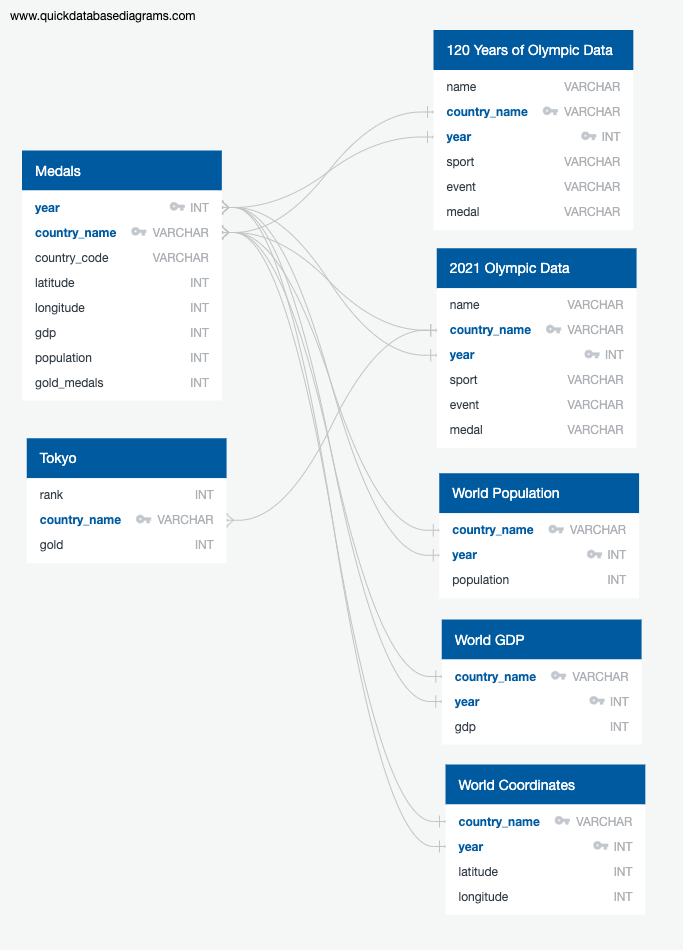
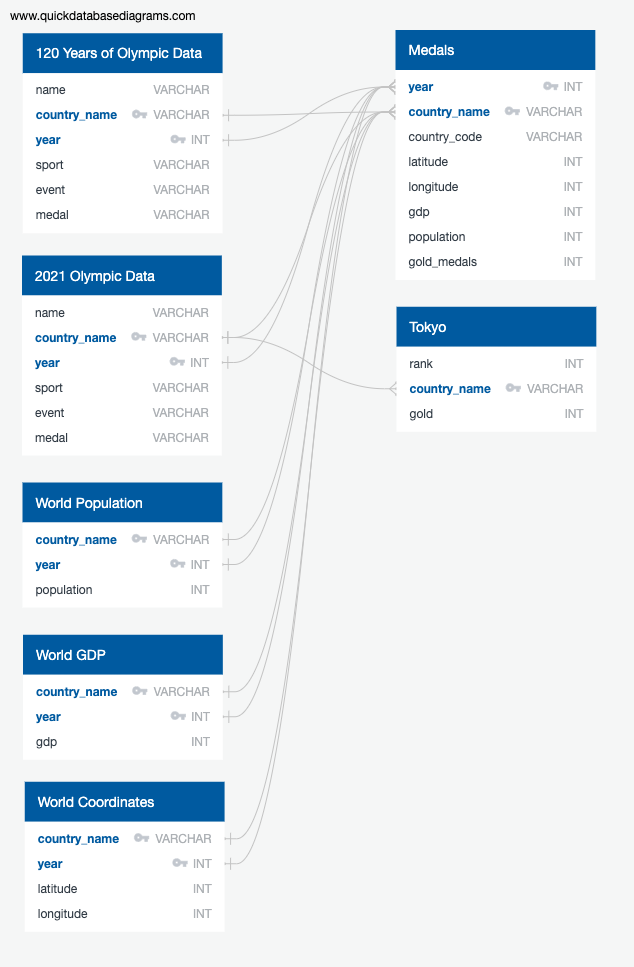
Update README.md

diff --git a/README.md b/README.md
@@ -6,7 +6,7 @@
 
 **Presentation:** <a href="https://docs.google.com/presentation/d/11bAJcIVT26343fWd_sayFOkF_LyOCVCvcwEMoAe4qWE/edit#slide=id.g93969108f1_2_103">Here is our final presentation.</a>
 
-**Dashboard:** <a href="https://alysiawon.github.io/Final-Project/Dashboard/index.html">Here is the draft of our dashboard.</a>
+**Dashboard:** <a href="https://alysiawon.github.io/Final-Project/Dashboard/index.html">Here is our dashboard.</a>
 
 ## 1. Overview of Project 
 
@@ -26,11 +26,11 @@ The Gold Medal Predicator will predict the exact number of medals you will win d
 
 In this project, we focus on using historic Olympic data and country data such as GDP and population to create the historic dashboard and the gold medal predictor. 
 
-<img align="right" src="Database/2. ERD/erd-process.png" width="450">
+<img align="right" src="Database/2. ERD/erd-process.png" width="300">
 
 ### Description of Datasets
 
-By utilizing Kaggle, World Bank and Google, we were able to find our datasets. The downloaded datasets are located in the <a href="Database/1. Datasets">Data folder</a>. Listed below is the links to the original datasets:
+By utilizing datasets from Kaggle, World Bank and Google, we were able to find our data. The downloaded datasets are located in the <a href="Database/1. Datasets">Data folder</a>. Listed below is the links to the original datasets:
 - <a href="https://www.kaggle.com/mysarahmadbhat/120-years-of-olympic-history">1896 to 2016 Olympic Data</a>
 - <a href="https://www.kaggle.com/arjunprasadsarkhel/2021-olympics-in-tokyo">2020 Olympic Data</a>.
 - <a href="https://www.kaggle.com/themlphdstudent/countries-population-from-1955-to-2020">World Population</a>
@@ -38,19 +38,21 @@ By utilizing Kaggle, World Bank and Google, we were able to find our datasets. T
 - <a href="https://developers.google.com/public-data/docs/canonical/countries_csv">World Coordinates</a>
 
 ### Entity Relationship Diagram (ERD)
-After searching for the data, our team created an <a href="Database/2. ERD">ERD Database</a>. In this ERD, it will showcase how our datasets link together to create our cleaned datasets. The left showcases our final datasets we will use to build our model and the right showcases the original datasets and how it links together. 
+After searching for the data, our team created an <a href="Database/2. ERD">ERD Database</a>. In this ERD, it will showcase how our datasets link together to create our cleaned datasets. The left showcases the original datasets and the left showcases our final datasets we will use to build our model and how it links together. 
 
-As a result, the two outputs that are created are:
+As a result, the final two outputs that are created are:
+
 **1. Medals Data:** A list of gold medalist countries and their country data (GDP, population, coordinates)
-**2. Tokyo Data:** A list of 2020 gold medalist countries
 
-<img src="Database/2. ERD/erd-final.png" width="450">
+**2. Tokyo Data:** A list of the 2020 gold medalist countries
+
+<img align="right" src="Database/2. ERD/erd-final.png" width="450">
 
 ### Cleaned Data Source
 
-After planning how our data will link, our team worked on cleaning our datasets to create the final dataframe needed for this project. The data cleaning process and final CSV files are located in the<a href="Database/3. Cleaned Data">cleaned data folder</a>.
+After planning how our data will link together, our team worked on cleaning our datasets to create the final dataframe needed for this project. The data cleaning process and final CSV files are located in the<a href="Database/3. Cleaned Data">cleaned data folder</a>.
 
-Our team utilized <a href="Database/3. Cleaned Data/medals.iypnb">Pandas</a> to clean the data, merge dataframes, reformat columns and data. 
+Our team utilized <a href="Database/3. Cleaned Data/medals.iypnb">Pandas</a> to clean the data, merge dataframes, reformat the columns and the data. 
 
 <img src="Database/3. Cleaned Data/Analysis/data-cleaning.png" width="450">
 
@@ -65,7 +67,6 @@ Our team created a local database application to store our data utilizing AWS, p
 The process we used to create a local database included:
 
 1. Creating an AWS RDS database and linked it to pgAdmin. 
-
 2. After linking it to pgAdmin, we were able to use SQL to link our clean data onto our local database.
 
 <img src="Database/4. SQL/pgadmin.png" width="450">
@@ -107,10 +108,6 @@ In our dashboard, we will be highlighting two key items:
 1. Olympic Gold Medal Predictor
 2. Olympic History
 
-Here is our <a href="https://docs.google.com/presentation/d/1xsYqW0NIX3Om_aYEWKTWvCO6CjRhGKa_lj4cfL7tMfA/edit?usp=sharing">Dashboard Storyboard</a> and a sample image on the right.
-
-<img align="right" src="Analysis/dashboard.png" width="250">
-
 ### Olympic Gold Medal Predictor
 
 The purpose of this section is to allow the user to input any GDP and/or population, and our machine learning system will populate:
@@ -127,17 +124,25 @@ The purpose of this section is to let the user select a previous Olympic year an
 
 ### Process of Creating The Dashboard
 
-The dashboard will include utilizing Javascript, HTML, CSS, Leaflet and Plotly. 
+The dashboard will include utilizing Python, Javascript, HTML, CSS, Leaflet and Plotly. 
 
-**1. Scrape the Data**
+**1. Create the Framework**
 
-**2. Creating Database**
+Once our team determined our plan, we created a <a href="https://docs.google.com/presentation/d/1xsYqW0NIX3Om_aYEWKTWvCO6CjRhGKa_lj4cfL7tMfA/edit?usp=sharing">Dashboard Storyboard Framework</a>. A sample image on the right.
+
+<img align="right" src="Dashboard/Analysis/dashboard.png" width="250">
+
+**2. Creating The Dashboard**
 
 Javascript and HTML was used to create a <a href="Dashboard/static/logic.js">Logic Javascript File</a> and modify the <a href="Dashboard/index.html">HTML Index File</a>. 
 
-**3. Web Application**
+**3. Linking the Database and the Dashboard**
 
-<a href="Dashboard/index.html">HTML</a> and <a href="Dashboard/static/styles.css">CSS</a> was used to update our web application to make it mobile-responsive and to ensure it was easy to read and user-friendly.
+We linked the <a href="Dashbord/app.py">database application</a> to the dashboard and was able to run our system utilizing our local server. 
+
+**4. Web Application**
+
+Lastly we used <a href="Dashboard/index.html">HTML</a> and <a href="Dashboard/static/styles.css">CSS</a> was used to update our web application to make it mobile-responsive and to ensure it was easy to read and user-friendly.
 
 ## 5. Github
 
@@ -145,14 +150,10 @@ Javascript and HTML was used to create a <a href="Dashboard/static/logic.js">Log
 
 ### Individual Branches
 - Alysia Won's Branch Name: alysia-won
-- Bala Banda's Branch Name: BalaBanda
 - Frank Sun's Branch Name: frank-sun
-- Steve Macpherson's Branch Name: smacpherson
 
 ### Github Layout
 In our Github repository, we have created the following folders:
-- <a href="Analysis">Analysis</a>: This consists of images and documnetation of our process. 
-- <a href="Dashboard">Dashboard</a>: This folder is used to create the dashboard utilizing techniques such as Javascript, CSS, and HTML.
-- <a href="Data">Data</a>: This folder consists of our cleaned data that was completed using Pandas and SQL, as well as our ERD diagram.
-- <a href="Resources">Resources</a>: This folder consists of the original datasets.
+- <a href="Dashboard">Dashboard</a>: This folder consists of the dashboard utilizing techniques such as Javascript, CSS, and HTML, as well as our database utilizing Pandas and Flask.
+- <a href="Database">Database</a>: This folder consists of the original datasets, the ERD draft, our cleaned dataset that was completed using Pandas, and our SQL queriers to set up the database.
 - <a href="Machine Learning">Machine Learning</a>: This folder consists of our Machine Learning diagram and framework.
